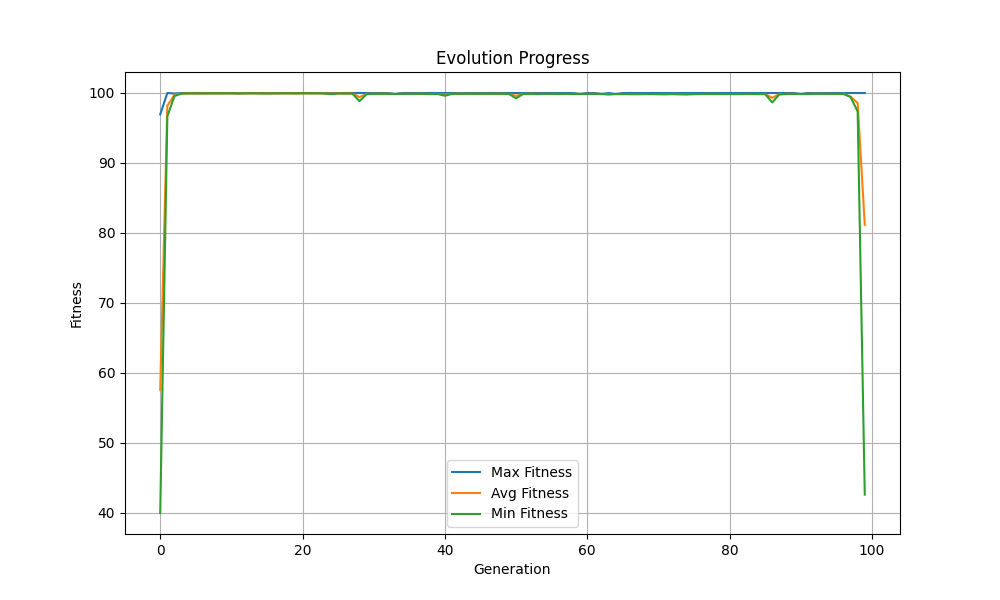
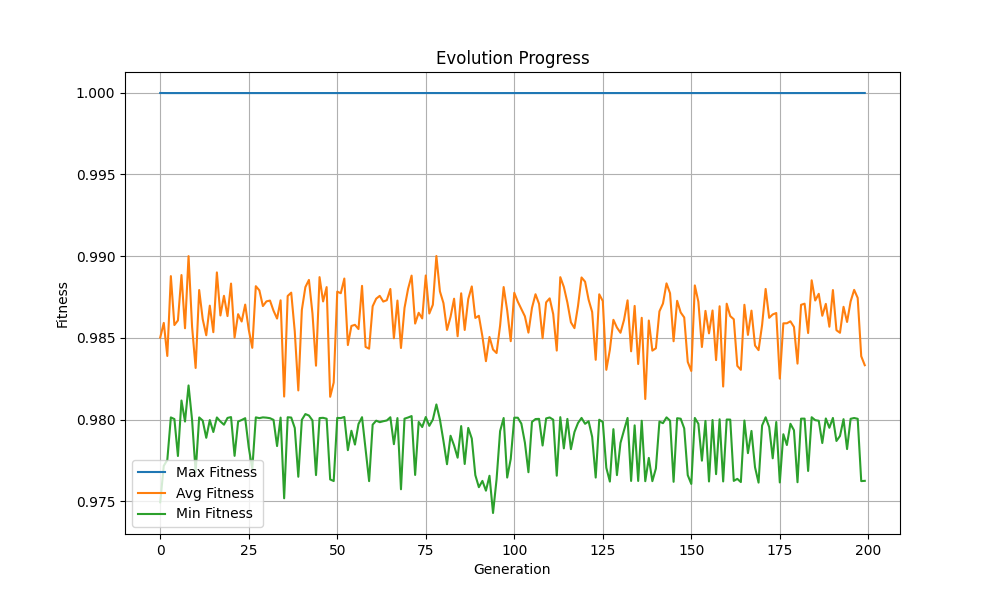
modified it to have correct settings but the agent is too slow

diff --git a/agents/base_agent.py b/agents/base_agent.py
@@ -14,6 +14,14 @@ class Animat:
     - Two batteries (energy levels)
     """
     
+    def _scale_genome_value(self, val, min_val, max_val):
+        """Scales a genome integer (0-99) to the range [min_val, max_val]."""
+        return (val / 99.0) * (max_val - min_val) + min_val
+
+    def _scale_sigmoid_genome_value(self, val):
+        """Scales a genome integer (0-99) to the range [-3.0, 3.0]."""
+        return (val / 99.0) * 6.0 - 3.0
+
     def __init__(self, position, genome=None, direction=None):
         """Initialize an Animat with position and optional genome.
         
@@ -50,10 +58,10 @@ class Animat:
         else:
             self.genome = genome.copy()
             
-        # Extract sigmoid thresholds from genome
+        # Extract and scale sigmoid thresholds from genome
         self.sigmoid_thresholds = [
-            self.genome[-2],  # Left wheel
-            self.genome[-1]   # Right wheel
+            self._scale_sigmoid_genome_value(self.genome[-2]),  # Left wheel
+            self._scale_sigmoid_genome_value(self.genome[-1])   # Right wheel
         ]
             
         # Parse genome into sensorimotor links
@@ -66,7 +74,7 @@ class Animat:
         # Final 2 genes are sigmoid thresholds for wheels
         
         genome_size = settings.GENOTYPE_SIZE
-        self.genome = np.random.randint(-50, 51, genome_size)
+        self.genome = np.random.randint(0, 100, genome_size)
         
         # Set battery indicators (even=battery1, odd=battery2)
         for i in range(0, settings.NUM_LINKS * settings.LINK_PARAM_COUNT, settings.LINK_PARAM_COUNT):
@@ -74,22 +82,56 @@ class Animat:
             self.genome[i + 8] = np.random.choice([0, 1])  # 0 for battery 1, 1 for battery 2
             
     def parse_genome(self):
-        """Parse the genome into sensorimotor links."""
+        """Parse the genome into sensorimotor links according to paper's specification."""
         self.links = []
         
         # Process each link's parameters
         for i in range(0, settings.NUM_LINKS * settings.LINK_PARAM_COUNT, settings.LINK_PARAM_COUNT):
+            # Scale offset (0-99 to -100 to +100)
+            offset_val = self._scale_genome_value(self.genome[i], -100.0, 100.0)
+
+            # Scale gradients (0-99 to -pi/2 to +pi/2, then tan)
+            angle1 = (self.genome[i + 1] / 99.0) * np.pi - (np.pi / 2.0)
+            grad1_val = np.tan(angle1)
+
+            # Scale threshold 1 (0-99 to -100 to +100)
+            thresh1_val = self._scale_genome_value(self.genome[i + 2], -100.0, 100.0)
+
+            angle2 = (self.genome[i + 3] / 99.0) * np.pi - (np.pi / 2.0)
+            grad2_val = np.tan(angle2)
+
+            # Scale raw thresh2 value first (0-99 to -100 to +100)
+            thresh2_raw_scaled = self._scale_genome_value(self.genome[i + 4], -100.0, 100.0)
+            # Enforce that the second threshold must follow the first
+            thresh2_val = max(thresh1_val, thresh2_raw_scaled)
+
+            angle3 = (self.genome[i + 5] / 99.0) * np.pi - (np.pi / 2.0)
+            grad3_val = np.tan(angle3)
+
+            # Slope and offset modulation degrees (paper does not explicitly scale these beyond being 0-99 derived)
+            # Current code uses / 10.0. Retaining this specific scaling.
+            slope_mod_val = self.genome[i + 6] / 10.0
+            offset_mod_val = self.genome[i + 7] / 10.0
+            
+            battery_val = self.genome[i + 8] # Already 0 or 1, used directly
+
             link_params = {
-                'offset': self.genome[i] / 10.0,                  # Initial output offset
-                'grad1': self.genome[i + 1] / 10.0,               # Gradient 1
-                'thresh1': self.genome[i + 2],                    # Threshold 1
-                'grad2': self.genome[i + 3] / 10.0,               # Gradient 2
-                'thresh2': self.genome[i + 4],                    # Threshold 2
-                'grad3': self.genome[i + 5] / 10.0,               # Gradient 3
-                'slope_mod': self.genome[i + 6] / 10.0,           # Slope modulation by battery
-                'offset_mod': self.genome[i + 7] / 10.0,          # Offset modulation by battery
-                'battery': self.genome[i + 8],                    # Battery number (0=battery1, 1=battery2)
+                'offset': offset_val,
+                'grad1': grad1_val,
+                'thresh1': thresh1_val,
+                'grad2': grad2_val,
+                'thresh2': thresh2_val,
+                'grad3': grad3_val,
+                'slope_mod': slope_mod_val,
+                'offset_mod': offset_mod_val,
+                'battery': battery_val,
             }
+            print(f"Link Parameters:")
+            print(f"  Offset: {link_params['offset']:.2f}")
+            print(f"  Gradients: {link_params['grad1']:.2f}, {link_params['grad2']:.2f}, {link_params['grad3']:.2f}")
+            print(f"  Thresholds: {link_params['thresh1']:.2f}, {link_params['thresh2']:.2f}")
+            print(f"  Modulations: slope={link_params['slope_mod']:.2f}, offset={link_params['offset_mod']:.2f}")
+            print(f"  Battery: {link_params['battery']}")
             self.links.append(link_params)
             
     def get_sensor_to_wheel_mapping(self, sensor_index):
@@ -259,7 +301,8 @@ class Animat:
         """Calculate the fitness of this animat based on battery levels.
         
         Returns:
-            Fitness score
+            Fitness score (normalized according to paper, 0-1 range)
         """
-        # F = (B1 + B2) / 2
-        return (self.batteries[0] + self.batteries[1]) / 2.0 
+        # F = (B1 + B2) / (2 * BATTERY_MAX) to align with paper's F = (B1 + B2)/400.0
+        # where BATTERY_MAX from paper is 200.
+        return (self.batteries[0] + self.batteries[1]) / (2.0 * settings.BATTERY_MAX)

diff --git a/config/settings.py b/config/settings.py
@@ -2,41 +2,43 @@
 Configuration settings for the Animat model simulation.
 """
 
-# Window settings
-WINDOW_WIDTH = 1200  # 0 means use full screen width
-WINDOW_HEIGHT = 800 # 0 means use full screen height
+#Window settings
+WINDOW_WIDTH = 1600
+WINDOW_HEIGHT = 1400
 WINDOW_TITLE = "Animat Evolution Simulation"
 FPS = 60
 
-# Environment settings
+#Environment settings
 ENV_SIZE = 200  # 200x200 area
 OBJECT_PLACEMENT_PADDING = 10
-FOOD_COUNT = 6
-WATER_COUNT = 6
-TRAP_COUNT = 2
+FOOD_COUNT = 3
+WATER_COUNT = 3
+TRAP_COUNT = 9
 
-# Animat settings
-ANIMAT_SIZE = 10
-ANIMAT_MAX_SPEED = 5.0
+#Animat settings
+ANIMAT_SIZE = 5
+SOURCE_SIZE = 16
+ANIMAT_MAX_SPEED = 2.8
 SENSOR_RANGE = 100
-BATTERY_MAX = 100
-BATTERY_DECAY_RATE = 1  # Per timestep
+BATTERY_MAX = 200
+BATTERY_DECAY_RATE = 100  # Per timestep (adjusted to deplete in 200 steps with dt=0.1)
+ANIMAT_MAX_LIFESPAN = 800 # Maximum simulation steps for fitness evaluation
 
-# Genetic algorithm settings
-POPULATION_SIZE = 50
-MUTATION_RATE = 0.004  # 0.4% per bit
-CROSSOVER_RATE = 0.9
-NUM_GENERATIONS = 100
-TOURNAMENT_SIZE = 3
+#Genetic algorithm settings
+POPULATION_SIZE = 100
+MUTATION_RATE = 0.04  # 4% per bit (Note: current mutation is per-gene)
+CROSSOVER_RATE = 0.5
+NUM_GENERATIONS = 200
+TOURNAMENT_SIZE = 2
 
-# Sensorimotor link settings
+#Sensorimotor link settings
 LINK_PARAM_COUNT = 9
 NUM_LINKS = 18  # 3 sensors * 2 sides * 3 parallel links
 GENOTYPE_SIZE = NUM_LINKS * LINK_PARAM_COUNT + 2  # +2 for sigmoid thresholds
 
-# Simulation mode
-HEADLESS_MODE = False  # Set to True to run simulations without visualization
-LOGGING_ENABLED = True
-
-# Random seed for reproducibility (set to None for random)
-RANDOM_SEED = 42 
+#Simulation mode
+HEADLESS_MODE = True  # Set to True to run simulations without visualization
+LOGGING_ENABLED = False
+SIMULATION=1000
+#Random seed for reproducibility (set to None for random)
+RANDOM_SEED = 42

diff --git a/core/environment.py b/core/environment.py
@@ -36,17 +36,17 @@ class Entity:
 class FoodSource(Entity):
     """Food source that restores battery 1."""
     def __init__(self, position):
-        super().__init__(position, EntityType.FOOD, radius=5)
+        super().__init__(position, EntityType.FOOD, radius=settings.SOURCE_SIZE)
 
 class WaterSource(Entity):
     """Water source that restores battery 2."""
     def __init__(self, position):
-        super().__init__(position, EntityType.WATER, radius=5)
+        super().__init__(position, EntityType.WATER, radius=settings.SOURCE_SIZE)
 
 class Trap(Entity):
     """Trap that kills animats on collision."""
     def __init__(self, position):
-        super().__init__(position, EntityType.TRAP, radius=5)
+        super().__init__(position, EntityType.TRAP, radius=settings.SOURCE_SIZE)
 
 class Environment:
     """The 2D environment containing all entities."""

diff --git a/core/simulator.py b/core/simulator.py
@@ -326,7 +326,7 @@ class Simulator:
                 self.simulation_time = 0
                 last_time = time.time()
                 steps = 0
-                max_steps = 5000  # Same as in simulate_animat function
+                max_steps = settings.ANIMAT_MAX_LIFESPAN
                 
                 # Display which batch is being simulated
                 title_text = f"{settings.WINDOW_TITLE} - Gen {gen+1}/{num_generations}, Batch {batch+1}/{num_batches}"

diff --git a/agents/agent_logic.py b/agents/agent_logic.py
@@ -161,7 +161,7 @@ class GeneticAlgorithm:
         """
         return self.best_genome, self.best_fitness
         
-def simulate_animat(genome, max_steps=5000):
+def simulate_animat(genome, max_steps=settings.ANIMAT_MAX_LIFESPAN):
     """Simulate an animat with the given genome to evaluate fitness.
     
     Args:
